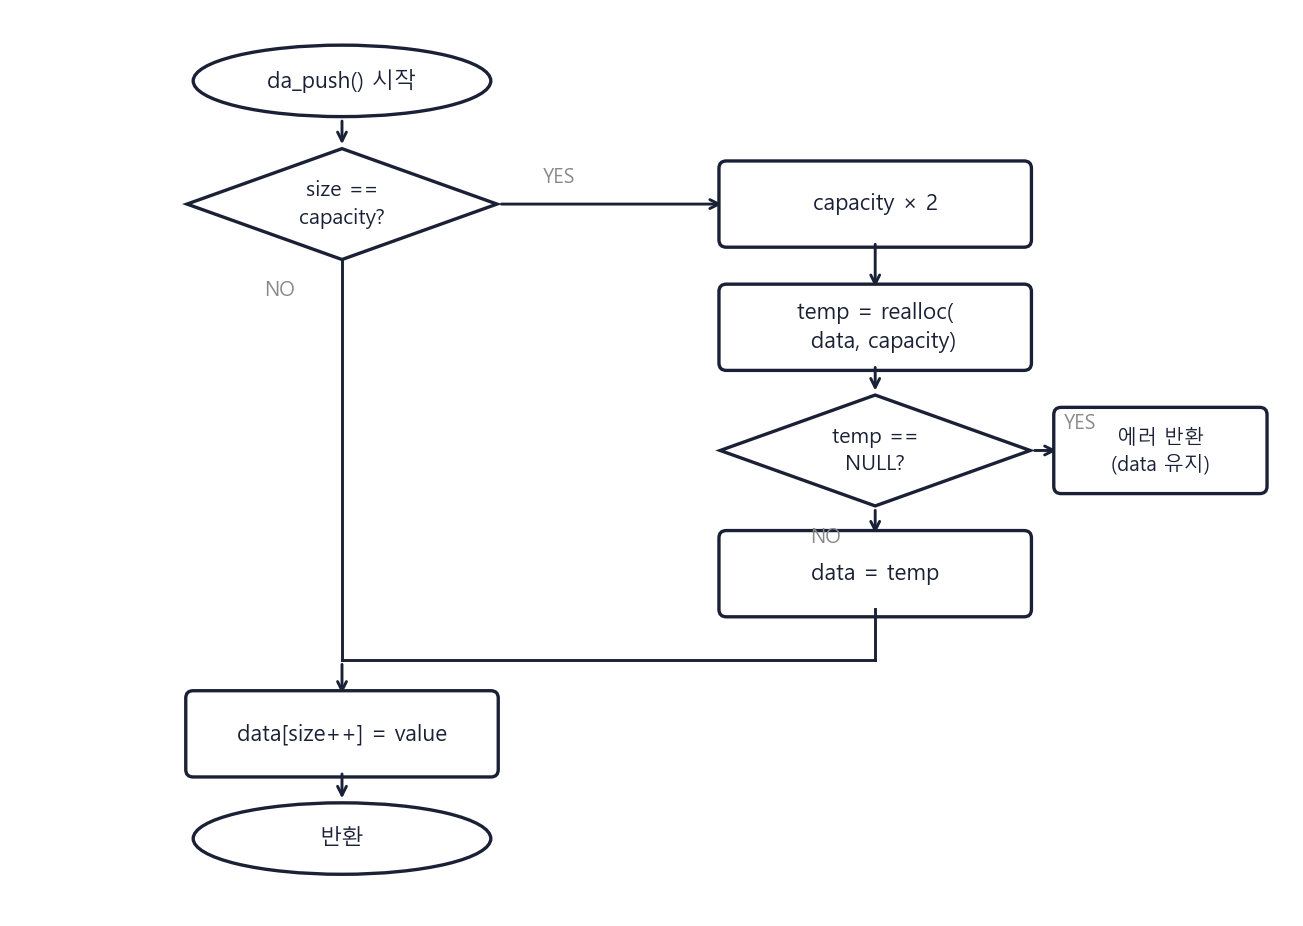
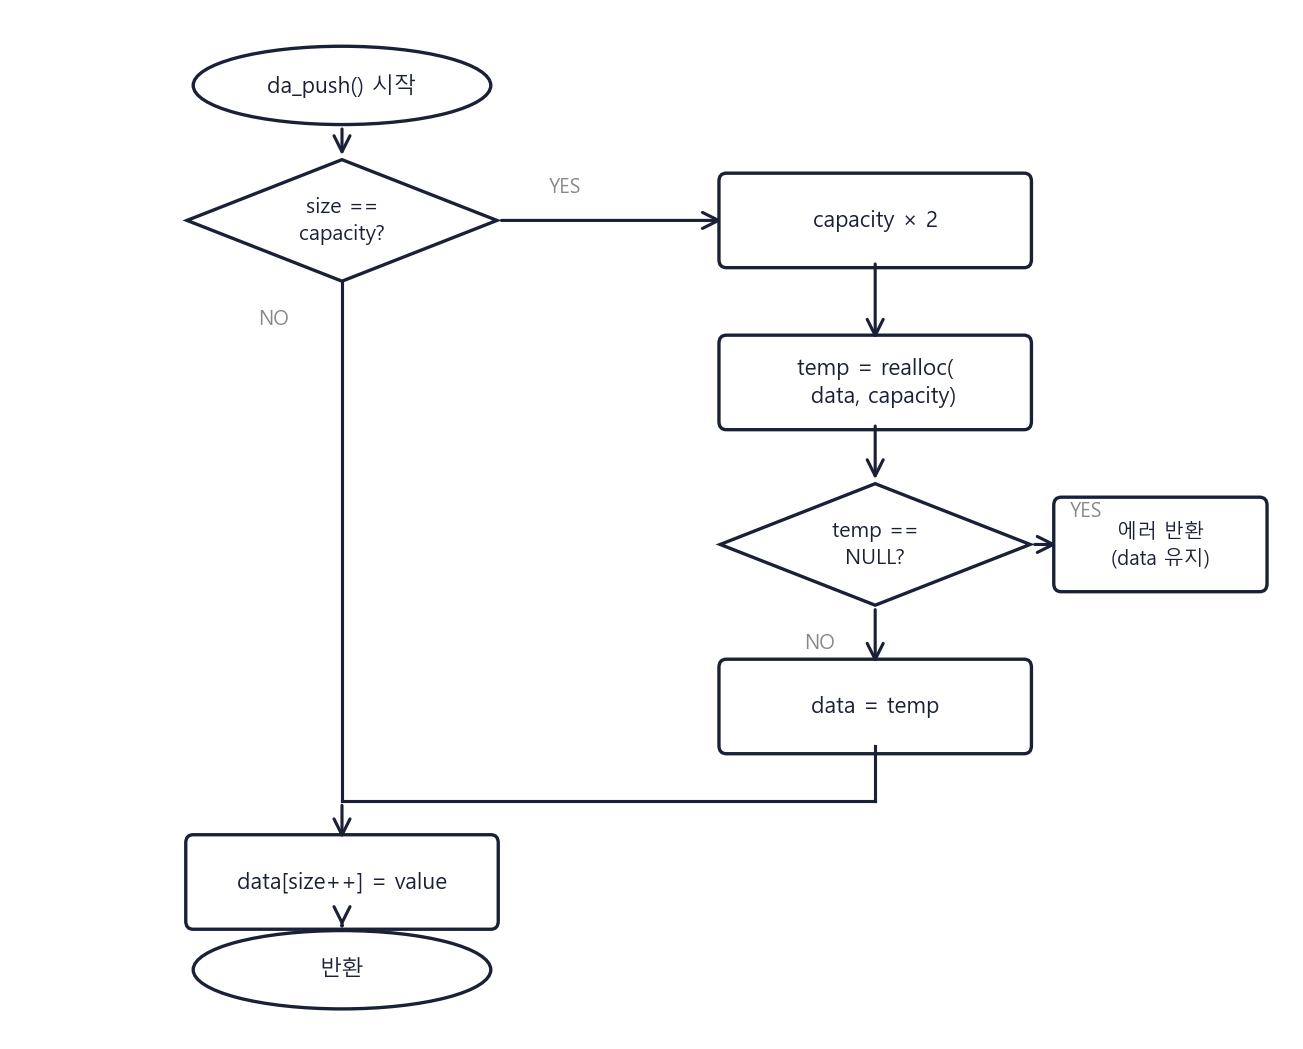
feat: PID 제어 기초 포스트 추가 및 이미지 정리
- Embedded Basic 시리즈에 PID 제어 기초 포스트 추가
  - 에어컨 비유로 시작하는 피드백 제어 개념 설명
  - P/I/D 항 수식(LaTeX) 및 직관적 해석
  - 적분 와인드업, anti-windup, 무충돌 절환 섹션
  - HBOT 챔버 실제 압력 프로파일 적용 사례
- 블록 다이어그램(pid-feedback-loop.png), 압력 프로파일(pid-pressure-profile.png) 추가
- 미사용 da_push_flowchart.png(underscore 중복본) 삭제
- atmega-code-review-intro.md 마무리 문장 수정

diff --git a/static/images/control-theory/gen_pid_feedback_loop.py b/static/images/control-theory/gen_pid_feedback_loop.py
@@ -1,0 +1,153 @@
+import matplotlib
+matplotlib.use('Agg')
+import matplotlib.pyplot as plt
+import matplotlib.patches as mpatches
+from matplotlib.patches import Ellipse
+import numpy as np
+from matplotlib import font_manager
+import os, shutil
+
+font_manager.fontManager.addfont(r'C:\Windows\Fonts\malgun.ttf')
+plt.rcParams['font.family'] = 'Malgun Gothic'
+plt.rcParams['axes.unicode_minus'] = False
+
+C   = '#1a2035'
+PAD = 0.04
+
+TMP   = r'C:\Users\bromine\AppData\Local\Temp\diagram_preview.png'
+FINAL = r'C:\Users\bromine\Desktop\Git Projects\bromine1997.github.io\static\images\control-theory\pid-feedback-loop.png'
+
+# ── 캔버스 ──────────────────────────────────────────────────────────
+fig, ax = plt.subplots(figsize=(13, 5))
+ax.set_xlim(0, 13)
+ax.set_ylim(0.5, 4.5)
+ax.axis('off')
+
+# ── 상수 ────────────────────────────────────────────────────────────
+Y_MAIN  = 2.8        # 메인 라인 y
+SJ_X    = 1.8        # 합산 접합점 center x
+SJ_Y    = Y_MAIN
+
+PID_CX, PID_CY = 4.5,  Y_MAIN
+PID_W,  PID_H  = 2.4,  1.0
+
+PLANT_CX, PLANT_CY = 8.2,  Y_MAIN
+PLANT_W,  PLANT_H  = 2.8,  1.2
+
+OUT_X = 11.2   # 출력 분기점 x
+
+# ── 헬퍼 ────────────────────────────────────────────────────────────
+def make_rect(cx, cy, w, h, lw=1.5):
+    ax.add_patch(mpatches.FancyBboxPatch(
+        (cx - w/2, cy - h/2), w, h,
+        boxstyle=f'round,pad={PAD}',
+        facecolor='white', edgecolor=C, lw=lw, zorder=3))
+    return dict(cx=cx, cy=cy,
+                top=cy + h/2 + PAD, bot=cy - h/2 - PAD,
+                left=cx - w/2 - PAD, right=cx + w/2 + PAD)
+
+def arr(x0, y0, x1, y1):
+    ax.annotate("", xy=(x1, y1), xytext=(x0, y0),
+                arrowprops=dict(arrowstyle='->', color=C, lw=1.8,
+                                mutation_scale=18), zorder=5)
+
+def seg(x0, y0, x1, y1):
+    ax.plot([x0, x1], [y0, y1], color=C, lw=1.8, zorder=4)
+
+def dot(x, y, r=0.06):
+    ax.add_patch(plt.Circle((x, y), r, color=C, zorder=6))
+
+# ── 블록 박스 ────────────────────────────────────────────────────────
+pid   = make_rect(PID_CX,   PID_CY,   PID_W,   PID_H)
+plant = make_rect(PLANT_CX, PLANT_CY, PLANT_W, PLANT_H)
+
+# ── 박스 내부 텍스트 ──────────────────────────────────────────────────
+ax.text(PID_CX, PID_CY, 'PID 제어기',
+        ha='center', va='center', fontsize=15, color=C, zorder=4)
+
+ax.text(PLANT_CX, PLANT_CY + 0.18, '밸브 → 유량',
+        ha='center', va='center', fontsize=14, color=C, zorder=4)
+ax.text(PLANT_CX, PLANT_CY - 0.18, '→ 챔버 압력',
+        ha='center', va='center', fontsize=14, color=C, zorder=4)
+
+# ── 합산 접합점 (진원 — Ellipse + 종횡비 보정) ──────────────────────
+# 1. canvas draw로 레이아웃 확정 (Ellipse 추가 전)
+fig.canvas.draw()
+
+# 2. 실제 픽셀 비율 계산
+ax_bbox   = ax.get_window_extent()
+x_range   = ax.get_xlim()[1] - ax.get_xlim()[0]
+y_range   = ax.get_ylim()[1] - ax.get_ylim()[0]
+px_per_xu = ax_bbox.width  / x_range
+px_per_yu = ax_bbox.height / y_range
+
+# 3. 화면에서 원형으로 보이는 반지름 (픽셀 기준)
+R_px = 36
+
+# 4. data 좌표계 반지름으로 역산
+r_x = R_px / px_per_xu
+r_y = R_px / px_per_yu
+
+# 5. Ellipse로 그리기 — 화면에서는 정원으로 보임
+sj = Ellipse((SJ_X, SJ_Y), width=2*r_x, height=2*r_y,
+             fc='white', ec=C, lw=1.8, zorder=3)
+ax.add_patch(sj)
+
+# 6. +/- 기호 (진원 기준으로 내부에 배치)
+# "+" : 위에서 들어오는 forward path → 원 상단 내부 (12시 방향)
+ax.text(SJ_X, SJ_Y + r_y * 0.52, '+',
+        ha='center', va='center', fontsize=17, color=C, zorder=4)
+
+# "-" : 아래에서 들어오는 feedback → 원 하단 내부 (6시 방향)
+ax.text(SJ_X, SJ_Y - r_y * 0.52, '-',
+        ha='center', va='center', fontsize=19, color=C, zorder=4,
+        fontweight='bold')
+
+# ── 메인 신호선 ──────────────────────────────────────────────────────
+# r(t) → 합산 접합점 (왼쪽에서 진입)
+arr(0.2, Y_MAIN, SJ_X - r_x - 0.05, Y_MAIN)
+
+# 합산 접합점 → PID (e(t), 오른쪽으로 나감)
+arr(SJ_X + r_x + 0.05, Y_MAIN, pid['left'], Y_MAIN)
+
+# PID → Plant (u(t))
+arr(pid['right'], Y_MAIN, plant['left'], Y_MAIN)
+
+# Plant → 출력 분기점
+seg(plant['right'], Y_MAIN, OUT_X, Y_MAIN)
+arr(OUT_X, Y_MAIN, OUT_X + 0.9, Y_MAIN)
+
+# 분기점 dot
+dot(OUT_X, Y_MAIN)
+
+# ── 피드백 경로 ──────────────────────────────────────────────────────
+FB_Y_BOT = 1.2   # 피드백 하단 라인 y
+
+# 출력 분기점 → 아래
+seg(OUT_X, Y_MAIN, OUT_X, FB_Y_BOT)
+
+# 아래 → 합산 접합점 하단 (수평)
+seg(OUT_X, FB_Y_BOT, SJ_X, FB_Y_BOT)
+
+# 합산 접합점 하단으로 화살표 (수직 — r_y 기준 끝점)
+arr(SJ_X, FB_Y_BOT, SJ_X, SJ_Y - r_y - 0.05)
+
+# ── 레이블 ──────────────────────────────────────────────────────────
+ax.text(0.15, Y_MAIN + 0.35, '목표압력', ha='center', va='bottom', fontsize=15, color=C)
+ax.text(0.15, Y_MAIN + 0.05, 'r(t)',    ha='center', va='bottom', fontsize=15, color=C)
+
+ax.text(12.0, Y_MAIN + 0.35, '실제압력', ha='center', va='bottom', fontsize=15, color=C)
+ax.text(12.0, Y_MAIN + 0.05, 'y(t)',    ha='center', va='bottom', fontsize=15, color=C)
+
+ax.text((SJ_X + r_x + pid['left']) / 2, Y_MAIN + 0.15, 'e(t)',
+        ha='center', va='bottom', fontsize=13, color=C)
+ax.text((pid['right'] + plant['left']) / 2, Y_MAIN + 0.15, 'u(t)',
+        ha='center', va='bottom', fontsize=13, color=C)
+
+ax.text((SJ_X + OUT_X) / 2, FB_Y_BOT - 0.22, '압력 센서 피드백',
+        ha='center', va='top', fontsize=14, color=C)
+
+# ── 저장 ────────────────────────────────────────────────────────────
+fig.savefig(TMP, dpi=160, bbox_inches='tight', pad_inches=0.25, facecolor='white')
+plt.close(fig)
+print('saved TMP:', TMP)

diff --git a/content/posts/basics/pid-control-basics.md b/content/posts/basics/pid-control-basics.md
@@ -1,0 +1,227 @@
+---
+title: "PID 제어 이론 기초: 고압산소챔버 압력 제어로 이해하기"
+date: 2026-06-12T20:00:00+09:00
+tags: ["PID", "control-theory", "embedded", "firmware", "HBOT"]
+categories: ["Embedded Basic"]
+description: "비례·적분·미분 세 항의 역할을 고압산소챔버(HBOT) 압력 제어 예시로 풀어본다. 적분 와인드업, 미분 노이즈, setpoint ramping 등 실전 구현 이슈까지 다룬다."
+ShowToc: true
+TocOpen: false
+draft: false
+math: true
+---
+
+## 들어가며
+
+에어컨을 26도에 맞춰두면, 실내 온도가 26도에 닿는 순간 딱 멈출까? 좋은 에어컨은 26도에 가까워질수록 슬슬 출력을 줄이다가 부드럽게 안착한다. 반대로 어설픈 온도 조절은 24도까지 확 떨어뜨렸다가 다시 28도로 올렸다가 출렁거린다. 이 "부드럽게 안착하느냐, 출렁거리느냐"의 차이를 만드는 게 바로 PID 제어다.
+
+알게 모르게 우리는 하루 종일 PID를 쓴다. 오르막에서도 속도를 유지하는 자동차 크루즈 컨트롤, 바람 속에서 제자리에 떠 있는 드론, 3D 프린터 노즐 온도, 보일러… 전부 PID다. 세상에서 가장 널리 쓰이는 제어 알고리즘인데, 핵심 아이디어는 의외로 한 줄로 끝난다 — "목표랑 얼마나 차이 나는지 보고, 그만큼 조절한다."
+
+이 글에서는 그 PID를, 내가 직접 다뤘던 고압산소챔버(HBOT) 압력 제어로 풀어본다. 챔버는 압력을 잘못 맞추면 환자 고막에 무리가 가는(기압손상) 시스템이라, "대충 맞으면 OK"가 아니라 정확하고 부드럽게 맞춰야 한다. 추상적인 수식보다 "압력을 맞추려고 밸브를 여닫는다"는 구체적인 그림으로 접근하는 게 훨씬 빠르다.
+
+> **역사 메모**: PID 제어의 첫 이론 논문은 Nicolas Minorsky가 1922년 발표한 *"Directional Stability of Automatically Steered Bodies"*다. 미 해군 함정의 자동 조타 시스템을 수학적으로 분석하면서 비례·적분·미분 항의 개념이 정립되었다.
+
+---
+
+## 피드백 제어란
+
+제어의 목표는 시스템의 출력을 원하는 값(setpoint)에 맞추는 것이다.
+
+샤워 온수로 생각하면 된다. 물이 너무 차가우면 온수 쪽으로 돌리고, 너무 뜨거우면 반대로 돌린다. "원하는 온도와 실제 온도의 차이"를 보고 손잡이를 조절하는 것 — 이게 피드백 제어다.
+
+핵심 개념은 오차(error)다.
+
+$$e(t) = r(t) - y(t)$$
+
+- $r(t)$: 목표값 (reference / setpoint)
+- $y(t)$: 실제 출력 (측정값)
+- $e(t)$: 오차
+
+제어기는 이 오차를 입력으로 받아 오차를 줄이는 방향으로 제어 입력 $u(t)$를 만든다. 출력을 다시 측정해 오차를 계산하므로 "피드백(되먹임)"이라 부른다.
+
+---
+
+## 실전 예시: 고압산소챔버 압력 제어
+
+내가 다뤘던 시스템을 PID 용어로 옮겨보자.
+
+| PID 용어 | 챔버 시스템 | 예시 값 |
+|---------|------------|--------|
+| 목표값 $r$ (Setpoint) | 원하는 챔버 압력 | 2.0 ATA |
+| 측정값 $y$ (PV) | 압력 센서가 읽은 값 | 1.7 ATA |
+| 오차 $e$ | 목표 − 실제 | +0.3 ATA |
+| 제어 출력 $u$ (MV) | 비례제어 밸브 전류 | 4–20 mA |
+| 플랜트 (Plant) | 밸브 → 유량 → 챔버 압력 | — |
+
+압력이 목표보다 낮으면(오차 +) 흡기 밸브 전류를 올려 산소를 더 넣고, 높으면(오차 −) 밸브를 닫거나 배기를 연다. "압력을 보고 → 밸브 전류를 조절 → 다시 압력이 바뀜"이라는 폐루프가 만들어진다.
+
+![챔버 압력 제어 루프 블록 다이어그램](/images/control-theory/pid-feedback-loop.png)
+
+이 구조에서 압력은 **상태변수**(제어 대상), 밸브 전류는 **조작변수**(우리가 움직이는 값)다.
+
+### 목표값은 "한 점"이 아니라 "궤적"이다
+
+실제 챔버 운용에서 목표 압력을 처음부터 2.0 ATA로 바로 지정하지 않는다. 운용자가 압력 프로파일을 설정한다.
+
+- **가압 시간**: 몇 분에 걸쳐 올릴지 (예: 10분)
+- **유지 압력**: 몇 기압으로 유지할지 (예: 2.0 ATA)
+- **유지 시간**: 그 압력을 몇 분 유지할지 (예: 60분)
+- **감압 시간**: 몇 분에 걸쳐 내릴지 (예: 10분)
+
+$r(t)$가 시간에 따라 천천히 올라가고(ramp) → 유지되고(hold) → 천천히 내려가는(ramp) 곡선이 된다. PID는 이 움직이는 목표를 따라간다. 제어 용어로 **궤적 추종(trajectory tracking)** 또는 setpoint profiling이라 한다.
+
+![운용자가 설정하는 압력 프로파일 (기준 궤적)](/images/control-theory/pid-pressure-profile.png)
+
+가압을 ramp으로 천천히 올리는 데에는 이유가 있다. 목표를 계단처럼 바꾸면 순간 오차가 커져 밸브가 풀로 열리고, 그 결과 적분 와인드업과 큰 오버슈트로 이어진다. 반면 목표를 서서히 올리면 매 순간 오차가 작게 유지돼 밸브가 부드럽게 동작한다. setpoint ramping은 와인드업·오버슈트를 구조적으로 미리 막아주는 기법이며, HBOT에서는 동시에 기압손상(barotrauma)도 방지한다.
+
+### 가압·유지 / 감압 제어기를 분리하기
+
+압력을 올리는 동역학(흡기 밸브 → 산소 유입)과 내리는 동역학(배기)은 특성이 다르다. 하나의 PID로 양방향을 다루기보다 가압+유지용과 감압용 PID를 분리하는 편이 깔끔하다. 각 구간에 맞는 게인을 따로 둘 수 있기 때문이다. 상황에 따라 제어기를 바꿔 쓰는 것을 **모드 스위칭(switching control)** 또는 넓게는 게인 스케줄링이라 부른다.
+
+제어기를 전환하는 순간(가압→유지, 유지→감압) 밸브 명령이 튀지 않으려면 **무충돌 절환(bumpless transfer)** 을 적용해야 한다. 새로 켜지는 PID의 적분기 상태를 현재 밸브 출력에 맞춰 초기화하면 전환 순간 압력이 출렁이는 걸 막을 수 있다.
+
+결국 실전 챔버 제어는 "step 목표를 따라가는 단순 PID"가 아니라, 운용자 정의 궤적을 추종하는 모드별 분리 PID 구조다. 아래에서 다룰 P·I·D의 기본 원리는 이 각각의 PID 블록 안에서 그대로 동작한다.
+
+---
+
+## PID 제어기의 구조
+
+PID는 이름 그대로 비례(P) · 적분(I) · 미분(D) 세 항의 합으로 제어 입력을 만든다.
+
+$$u(t) = K_p e(t) + K_i \int_0^t e(\tau)\,d\tau + K_d \frac{de(t)}{dt}$$
+
+라플라스 영역 전달함수로는 다음과 같다.
+
+$$C(s) = K_p + \frac{K_i}{s} + K_d s$$
+
+세 항은 각각 오차의 현재·과거·미래를 담당한다. 챔버로 치면 "지금 압력이 얼마나 부족한지(P) · 그동안 얼마나 못 맞췄는지(I) · 지금 얼마나 빠르게 차오르는지(D)"를 동시에 보는 셈이다.
+
+---
+
+## P · I · D 각 항의 역할
+
+### P — 비례 항 (지금 얼마나 차이 나는가)
+
+$$u_P(t) = K_p e(t)$$
+
+오차에 비례해 밸브 전류를 올린다. 압력이 목표보다 많이 모자라면 밸브를 많이 열고, 거의 다 왔으면 조금만 연다.
+
+- $K_p$를 키우면 압력이 빨리 차오른다.
+- 너무 키우면 목표 압력을 지나쳐버리는 오버슈트가 생기고, 심하면 출렁출렁 진동한다.
+
+비례 항만으로는 목표에 정확히 못 맞춘다. 압력이 목표에 가까워질수록 오차가 줄고, 그러면 밸브를 거의 닫아버려 미세하게 모자란 상태로 멈춰버린다. 이 **정상상태 오차(steady-state error)** 가 P 제어의 한계다.
+
+### I — 적분 항 (그동안 쌓인 차이)
+
+$$u_I(t) = K_i \int_0^t e(\tau)\,d\tau$$
+
+작은 오차라도 계속 남아 있으면 시간에 따라 누적해서 밸브를 조금씩 더 연다. "1.95 ATA에서 계속 멈춰 있네? 그럼 누적해서 더 밀어주자" — I 항의 역할이다.
+
+- 정상상태 오차를 0으로 제거해 목표 압력에 정확히 도달시키는 핵심 항.
+- 누적 특성 때문에 반응이 굼떠지고, 과하면 오버슈트와 진동을 만든다.
+- 챔버처럼 밸브에 물리적 한계가 있는 시스템에서는 적분 와인드업을 반드시 처리해야 한다(아래 절 참고).
+
+### D — 미분 항 (얼마나 빠르게 변하는가)
+
+$$u_D(t) = K_d \frac{de(t)}{dt}$$
+
+압력이 빠르게 차오르는 중이면 "이대로면 목표를 지나치겠다"고 판단해 밸브를 미리 줄인다. 브레이크를 미리 살짝 밟는 셈이다.
+
+- 오버슈트를 억제하고 응답을 안정적으로 만든다. 기압손상(barotrauma)을 막아야 하는 챔버에서 특히 의미 있다.
+- 압력 센서 노이즈에 민감하다. 신호가 조금만 떨려도 미분값이 크게 튀므로 미분 필터가 거의 필수다.
+- 실무에서는 D를 빼고 PI 제어만 쓰는 경우도 많다.
+
+| 항 | 보는 것 | 챔버에서의 효과 | 부작용 |
+|---|--------|--------------|-------|
+| P | 지금 압력 차이 | 빠르게 차오름 | 오버슈트, 정상상태 오차 |
+| I | 누적된 차이 | 목표 압력 정확히 도달 | 굼뜸, 와인드업 |
+| D | 압력 변화 속도 | 오버슈트 억제 (기압손상 방지) | 센서 노이즈 증폭 |
+
+---
+
+## 튜닝: 게인은 어떻게 정하나
+
+$K_p, K_i, K_d$ 세 값을 어떻게 정할까? 가장 고전적인 방법이 1942년 Ziegler-Nichols 튜닝법이다.
+
+**한계 감도법 절차:**
+
+1. I, D를 끄고 P 제어만 켠다.
+2. $K_p$를 0부터 서서히 키우면서, 챔버 압력이 일정 진폭으로 진동하기 시작하는 게인을 찾는다 → 한계 게인 $K_u$.
+3. 그때의 진동 주기 $T_u$를 잰다.
+4. 아래 표로 게인을 계산한다.
+
+| 제어기 | $K_p$ | $T_i$ | $T_d$ |
+|------|------|------|------|
+| P | $0.5\,K_u$ | — | — |
+| PI | $0.45\,K_u$ | $T_u / 1.2$ | — |
+| PID | $0.6\,K_u$ | $T_u / 2$ | $T_u / 8$ |
+
+$K_i = K_p / T_i$, $K_d = K_p \cdot T_d$로 환산한다.
+
+실제 챔버에서 한계 게인을 찾겠다고 압력을 진동시키는 건 안전상 위험할 수 있다. 시뮬레이션이나 저압 영역에서 조심스럽게 진행하거나, 모델 기반 튜닝(IMC, Lambda 튜닝)을 쓰는 편이 낫다. Ziegler-Nichols는 오버슈트가 큰 편이라 초기 출발점으로 쓰고 손으로 다듬는 게 일반적이다.
+
+---
+
+## 실무에서 마주치는 문제
+
+이론만큼 중요한 게 구현 디테일이다. 챔버 펌웨어를 짜다 보면 두 가지는 반드시 만난다.
+
+### 적분 와인드업 (Integral Windup)
+
+밸브 전류는 4–20 mA로 물리적 상한이 있다. 가압 초기에 압력이 한참 모자라면 제어기는 계속 "밸브 더 열어"를 요구하지만, 이미 20 mA(완전 개방)라 더 열 수가 없다. 그런데도 적분항은 멈추지 않고 계속 누적된다.
+
+목표에 도달해 오차 부호가 바뀌어도, 그동안 잔뜩 쌓인 적분값을 다 풀어내느라 밸브가 늦게 닫혀 큰 오버슈트가 난다.
+
+**대응책:**
+- **적분 클램핑**: 밸브가 포화(20 mA 또는 4 mA) 상태일 때 적분 누적을 멈춘다.
+- **back-calculation**: 포화로 잘려나간 출력만큼 적분값을 되돌린다.
+
+### 미분 노이즈와 미분 킥
+
+- 압력 센서의 고주파 잡음을 미분이 증폭한다 → 저역통과 필터를 거친 미분(filtered derivative)을 쓴다.
+- 목표 압력을 계단형으로 바꾸면 오차가 순간 튀어 미분항이 큰 펄스를 만든다(derivative kick) → 측정 압력에만 미분을 적용(derivative on measurement)해 회피한다.
+
+이런 디테일까지 반영한 형태를 **실용형 PID(practical PID)** 라 부른다.
+
+---
+
+## PID의 한계와 그 너머
+
+기본형 PID는 강한 비선형성·큰 시간지연·다변수 간섭에 약하다. 챔버 압력 제어는 꽤 비선형적인 문제다.
+
+- 밸브 차압에 따라 유량 관계가 비선형이고, 기체 압축성 때문에 압력 구간마다 시스템 반응이 다르다. 고정 게인 PID 하나로 전 구간을 커버하기 어렵다.
+- 흡기 밸브와 배기 밸브의 특성이 달라 가압/감압 동작이 비대칭이다.
+- 최종 압력뿐 아니라 가압·감압 속도 프로파일(기압손상 방지)을 추종해야 한다.
+
+이런 한계를 넘기 위한 방향:
+
+- **게인 스케줄링**: 압력대별로 게인을 바꿔 적용한다. 가압/유지/감압 제어기를 분리하는 것도 큰 틀에서 여기에 속한다.
+- **분수차 PID (FOPID)**: 적분·미분 차수를 실수로 확장해 자유도를 높인다.
+- **적응형 PID**: MRAS나 신경망으로 게인을 실시간 조정한다.
+- **궤적 추종 + 고장허용 제어**: 압력 프로파일을 추종하면서 밸브 고장 등에도 견디게 한다(최신 챔버 제어 논문의 방향).
+
+이런 발전된 기법들도 결국 PID 뼈대 위에서 확장된다. 기본 PID를 제대로 이해하는 것이 출발점인 이유다.
+
+---
+
+## 정리
+
+PID는 오차의 현재(P)·과거(I)·미래(D)를 각각 다루는 세 항의 합이다. 챔버로 보면, P는 압력을 빠르게 채우고, I는 목표 압력에 정확히 맞추고, D는 오버슈트(과압)를 막는다.
+
+실전 챔버 제어의 포인트를 정리하면:
+
+- 목표를 한 점이 아니라 궤적(가압→유지→감압 프로파일)으로 주고 추종시킨다.
+- setpoint ramping은 와인드업·오버슈트·기압손상을 구조적으로 막아준다.
+- 가압·유지와 감압 제어기는 분리하고, 전환 시 무충돌 절환(bumpless transfer)을 적용한다.
+- Ziegler-Nichols는 초기 게인 추정에 쓰지만, 안전이 중요한 시스템에서는 조심해서 적용한다.
+- 적분 와인드업과 미분 노이즈 처리가 실제 성능을 좌우한다.
+
+---
+
+## 참고 문헌
+
+- N. Minorsky, "Directional Stability of Automatically Steered Bodies," *Journal of the American Society of Naval Engineers*, vol. 34, no. 2, pp. 280–309, 1922.
+- J. G. Ziegler and N. B. Nichols, "Optimum Settings for Automatic Controllers," *Transactions of the ASME*, vol. 64, no. 8, pp. 759–765, 1942.
+- K. J. Åström and T. Hägglund, *Advanced PID Control*, ISA, 2006.
+- K. J. Åström and T. Hägglund, "The Future of PID Control," *Control Engineering Practice*, vol. 9, no. 11, pp. 1163–1175, 2001.
+- K. H. Ang, G. Chong, and Y. Li, "PID Control System Analysis, Design, and Technology," *IEEE Transactions on Control Systems Technology*, vol. 13, no. 4, pp. 559–576, 2005.
+- L. Gracia et al., "Identification and control of a multiplace hyperbaric chamber," *PLOS One*, 2018.
